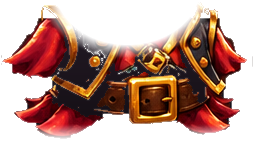
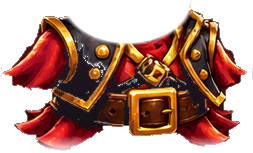
fix(octo-vault): keep the captain's coat whole up to the shoulders
The neck clearing removed every dark pixel of the top rows, so the black
cloth of the shoulders went with it. The neckline cut alone opens the neck
now, and the coat sits higher.

diff --git a/games/octo-vault/src/config/character.config.ts b/games/octo-vault/src/config/character.config.ts
@@ -45,8 +45,8 @@ const layers = {
   tentacle_6: tentacle(at(15, 160), at(175, 270), -6, 0.95),
   // In front: the coat is worn over the lower body, its open neck under the chin, with the
   // compass hanging from the belt.
-  coat: { parent: 'body', pivot: at(127, 0), position: at(122, 150), scale: 1.2 },
-  coat_collar: { parent: 'body', pivot: at(72, 20), position: at(126, 178), scale: 1.05 },
+  coat: { parent: 'body', pivot: at(127, 0), position: at(122, 140), scale: 1.2 },
+  coat_collar: { parent: 'body', pivot: at(72, 20), position: at(126, 168), scale: 1.05 },
   compass: { parent: 'body', pivot: at(45, 8), position: at(186, 250), scale: 0.4 },
   mouth_grin: { parent: 'body', pivot: at(54, 38), position: at(138, 145), scale: 0.95, alpha: 0 },
   eyes_angry: { parent: 'body', pivot: at(61, 42), position: at(143, 98), scale: 1.22, alpha: 0 },
